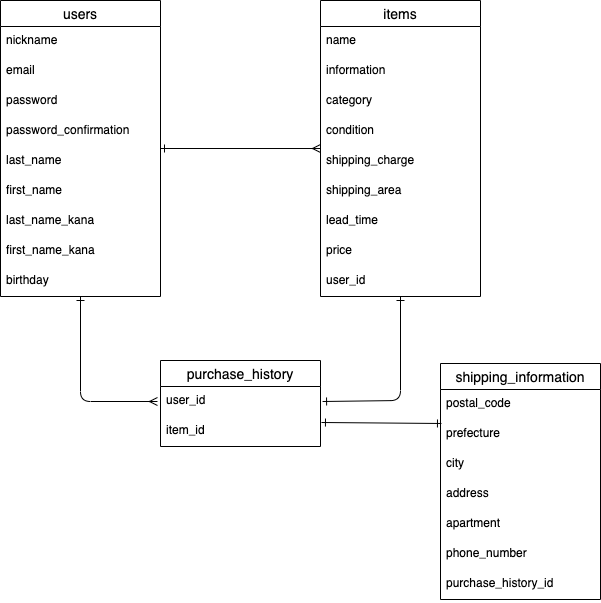
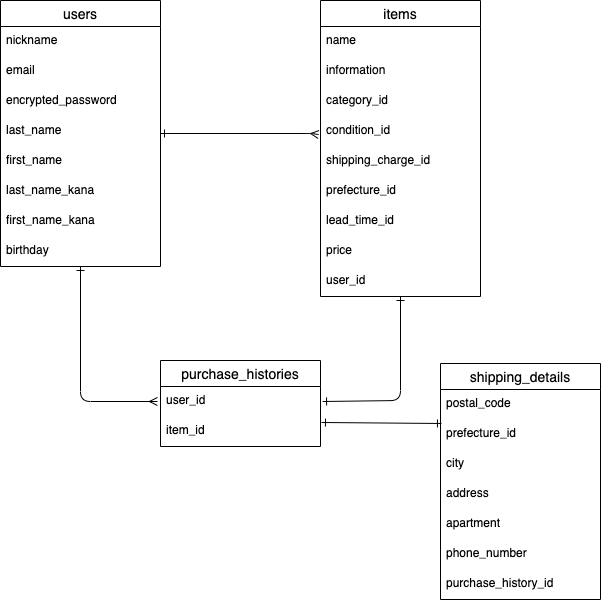
データベース設計②

diff --git a/README.md b/README.md
@@ -4,10 +4,9 @@
 
 | Column                | Type        | Options                     |
 | --------------------- | ----------- | --------------------------- |
-| nickname              | string      | null: false, unique: true   |
+| nickname              | string      | null: false                 |
 | email                 | string      | null: false, unique: true   |
-| password              | string      | null: false                 |
-| password_confirmation | string      | null: false                 |
+| encrypted_password    | string      | null: false                 |
 | last_name             | string      | null: false                 |
 | first_name            | string      | null: false                 |
 | last_name_kana        | string      | null: false                 |
@@ -16,18 +15,18 @@
 
 ### Association
 - has_many :items
-- has_many :purchase_history
+- has_many :purchase_histories
 
 ## items テーブル
 | Column               | Type        | Options                        |
 | -------------------- | ----------- | ------------------------------ |
-| name                 | string      | null: false, unique: true      |
+| name                 | string      | null: false                    |
 | information          | text        | null: false                    |
-| category             | string      | null: false                    |
-| condition            | string      | null: false                    |
-| shipping_charge      | string      | null: false                    |
-| shipping_area        | string      | null: false                    |
-| lead_time            | string      | null: false                    |
+| category_id          | integer     | null: false                    |
+| condition_id         | integer     | null: false                    |
+| shipping_charge_id   | integer     | null: false                    |
+| prefecture_id        | integer     | null: false                    |
+| lead_time_id         | integer     | null: false                    |
 | price                | integer     | null: false                    |
 | user                 | references  | null: false, foreign_key: true |       
 
@@ -35,7 +34,7 @@
 - belongs_to :user
 - has_one :purchase_history
 
-## purchase_history テーブル
+## purchase_histories テーブル
 | Column               | Type        | Options                        |
 | -------------------- | ----------- | ------------------------------ |
 | user                 | references  | null: false, foreign_key: true | 
@@ -44,16 +43,16 @@
 ### Association
 - belongs_to :user
 - belongs_to :item
-- has_one :shipping_information
+- has_one :shipping_detail
 
-## shipping_information テーブル
+## shipping_details テーブル
 | Column               | Type        | Options                        |
 | -------------------- | ----------- | ------------------------------ |
 | postal_code          | string      | null: false                    |
-| prefecture           | text        | null: false                    |
-| city                 | text        | null: false                    |
-| address              | text        | null: false                    |
-| apartment            | text        |                                |
+| prefecture_id        | integer     | null: false                    |
+| city                 | string      | null: false                    |
+| address              | string      | null: false                    |
+| apartment            | string      |                                |
 | phone_number         | string      | null: false                    |
 | purchase_history     | references  | null: false, foreign_key: true | 
 
